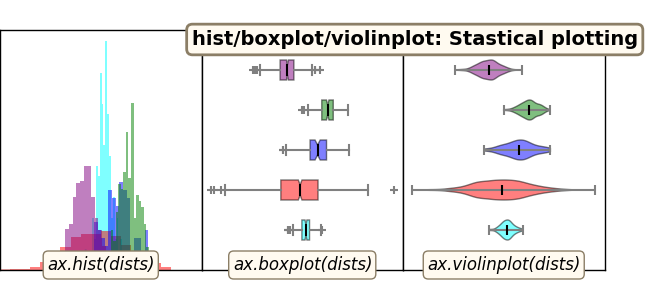
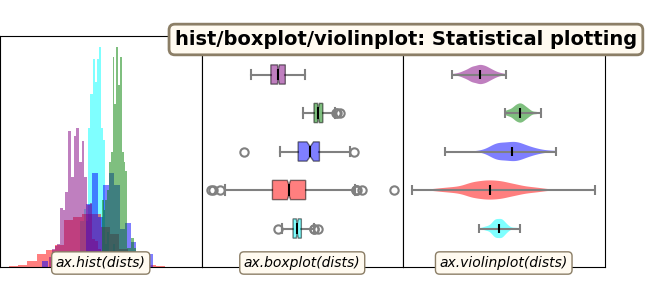
Fix typo in statistical example image.
* Plus, moved away from deprecated "normed" kwarg

diff --git a/examples/statistical_example.py b/examples/statistical_example.py
@@ -19,7 +19,7 @@ def main():
     boxplot(axes[1], dists, colors)
     violinplot(axes[2], dists, colors)
 
-    example_utils.title(fig, 'hist/boxplot/violinplot: Stastical plotting',
+    example_utils.title(fig, 'hist/boxplot/violinplot: Statistical plotting',
                         y=0.9)
     fig.savefig('statistical_example.png', facecolor='none')
 
@@ -39,7 +39,7 @@ def hist(ax, dists, colors):
     # each distribution separately so they'll overlap and turn on transparency
     ax.set_color_cycle(colors)
     for dist in dists:
-        ax.hist(dist, bins=20, normed=True, edgecolor='none', alpha=0.5)
+        ax.hist(dist, bins=20, density=True, edgecolor='none', alpha=0.5)
 
     ax.margins(y=0.05)
     ax.set_ylim(bottom=0)
